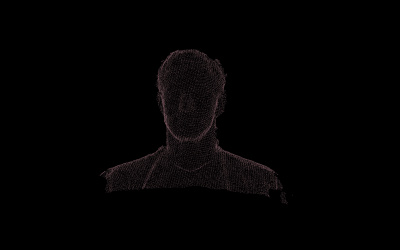
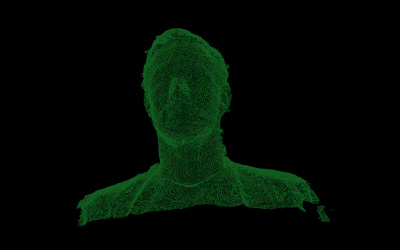
PCD Loader Example: Clean up (#22019)
* Clean up

* Update screenshot

* Clean up

* Update screenshot

Changed region(s): [[0.18, 0.112, 0.84, 0.924]]

diff --git a/examples/webgl_loader_pcd.html b/examples/webgl_loader_pcd.html
@@ -19,60 +19,44 @@
 
 			import * as THREE from '../build/three.module.js';
 
-			import Stats from './jsm/libs/stats.module.js';
-
-			import { TrackballControls } from './jsm/controls/TrackballControls.js';
+			import { OrbitControls } from './jsm/controls/OrbitControls.js';
 			import { PCDLoader } from './jsm/loaders/PCDLoader.js';
 
-			let container, stats;
-			let camera, controls, scene, renderer;
+			let camera, scene, renderer;
 
 			init();
-			animate();
+			render();
+
 			function init() {
-
-				scene = new THREE.Scene();
-				scene.background = new THREE.Color( 0x000000 );
-
-				camera = new THREE.PerspectiveCamera( 15, window.innerWidth / window.innerHeight, 0.01, 40 );
-				camera.position.x = 0.4;
-				camera.position.z = - 2;
-				camera.up.set( 0, 0, 1 );
-
-				scene.add( camera );
 
 				renderer = new THREE.WebGLRenderer( { antialias: true } );
 				renderer.setPixelRatio( window.devicePixelRatio );
 				renderer.setSize( window.innerWidth, window.innerHeight );
 				document.body.appendChild( renderer.domElement );
 
+				scene = new THREE.Scene();
+
+				camera = new THREE.PerspectiveCamera( 30, window.innerWidth / window.innerHeight, 0.01, 40 );
+				camera.position.set( 0, 0, 1 );
+				scene.add( camera );
+
+				const controls = new OrbitControls( camera, renderer.domElement );
+				controls.addEventListener( 'change', render ); // use if there is no animation loop
+				controls.minDistance = 0.5;
+				controls.maxDistance = 10;
+
+				//scene.add( new THREE.AxesHelper( 1 ) );
+
 				const loader = new PCDLoader();
 				loader.load( './models/pcd/binary/Zaghetto.pcd', function ( points ) {
 
+					points.geometry.center();
+					points.geometry.rotateX( Math.PI );
 					scene.add( points );
-					const center = points.geometry.boundingSphere.center;
-					controls.target.set( center.x, center.y, center.z );
-					controls.update();
+
+					render();
 
 				} );
-
-				container = document.createElement( 'div' );
-				document.body.appendChild( container );
-				container.appendChild( renderer.domElement );
-
-				controls = new TrackballControls( camera, renderer.domElement );
-
-				controls.rotateSpeed = 2.0;
-				controls.zoomSpeed = 0.3;
-				controls.panSpeed = 0.2;
-
-				controls.staticMoving = true;
-
-				controls.minDistance = 0.3;
-				controls.maxDistance = 0.3 * 100;
-
-				stats = new Stats();
-				container.appendChild( stats.dom );
 
 				window.addEventListener( 'resize', onWindowResize );
 
@@ -84,8 +68,8 @@
 
 				camera.aspect = window.innerWidth / window.innerHeight;
 				camera.updateProjectionMatrix();
+
 				renderer.setSize( window.innerWidth, window.innerHeight );
-				controls.handleResize();
 
 			}
 
@@ -97,29 +81,25 @@
 
 					case '+':
 						points.material.size *= 1.2;
-						points.material.needsUpdate = true;
 						break;
 
 					case '-':
 						points.material.size /= 1.2;
-						points.material.needsUpdate = true;
 						break;
 
 					case 'c':
 						points.material.color.setHex( Math.random() * 0xffffff );
-						points.material.needsUpdate = true;
 						break;
 
 				}
 
+				render();
+
 			}
 
-			function animate() {
+			function render() {
 
-				requestAnimationFrame( animate );
-				controls.update();
 				renderer.render( scene, camera );
-				stats.update();
 
 			}
 
